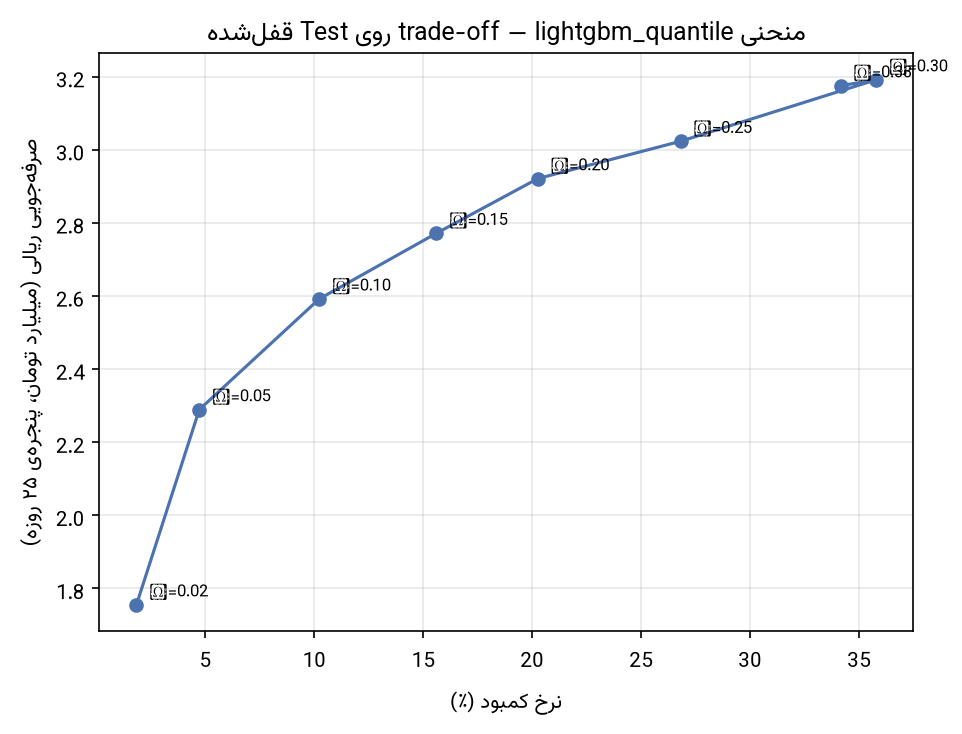
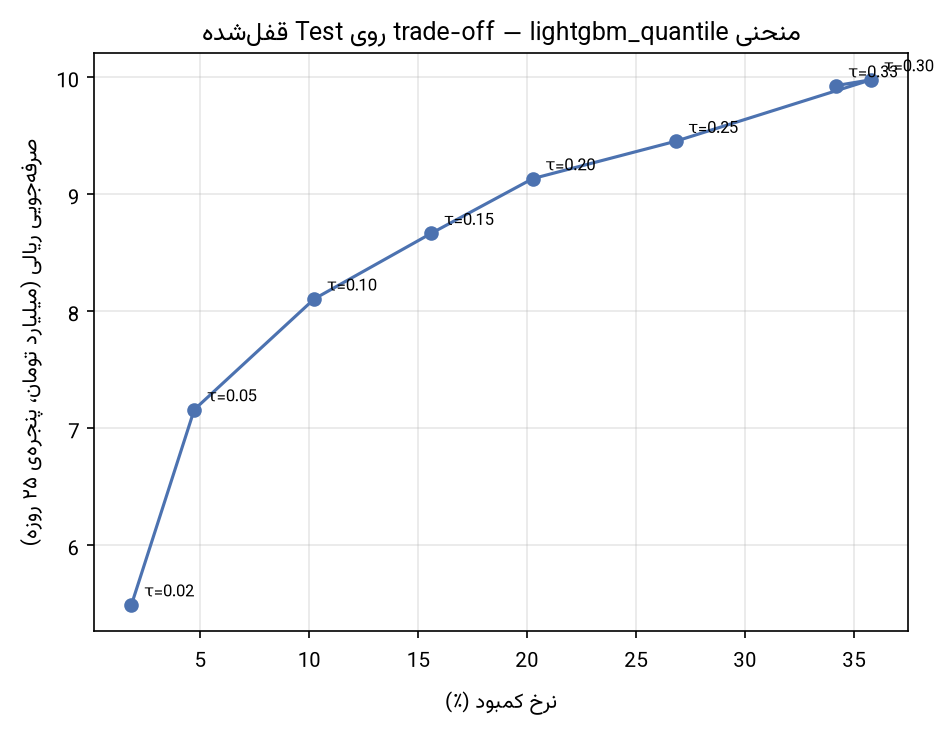
fix(economics): بهروزرسانی C_o از تقریب ۱۲۰ به قیمت واقعی امروز ۳۷۵ هزار تومان
قیمت تمامشدهی هر پرس برای دانشگاه (C_o) در همهی محاسبات کسبوکاری از تقریب
قدیمی ۱۲۰٬۰۰۰ تومان به قیمت واقعی امروز (شهریور ۱۴۰۵) ۳۷۵٬۰۰۰ تومان اصلاح شد؛
هر ارقام ریالی گزارش صریحاً «قیمت امروز» برچسب خوردند تا با نرخ پایینتر بازهی
داده (آذر ۱۴۰۲–خرداد ۱۴۰۳) اشتباه گرفته نشوند. قیمت یارانهای دانشجو (۳۵ هزار
تومان) هم بهعنوان مرجع مقایسه در فصل ۲ ذکر شد.

- COST_PER_PORTION_TOMAN در سه اسکریپت فاز ۸/۱۰ بهروز و دوباره اجرا شد
- صرفهجویی سالانهی سه سناریو: [11.6, 17.5, 19.8] → [36.3, 54.7, 61.9] میلیارد تومان
- doc/project-definition.md، doc/WBS، decision_log (ردیف ۶۲) و شش فایل final_report/tex همزمان بهروز شدند
- کامپایل xelatex بدون خطا تأیید شد (main.pdf، ۱۰۲ صفحه)

diff --git a/final_report/tex/chapter5.tex b/final_report/tex/chapter5.tex
@@ -31,8 +31,8 @@ $(d,m,r,f)$ صورتبندی شد و نه برآورد میانگین آن، 
 سرانجام لایهی تصمیم، نرخ پیشبینیشده را به عدد پخت تبدیل کرد و $\tau$ را بهعنوان اهرم
 سیاستی در اختیار بهرهبردار گذاشت. در نقطهی عملیاتی $\tau = 0.20$ هدررفت نسبت به پخت
 کامل رزرو حدود $71\%$ کاهش مییابد و بهطور متوسط ۳۱ پرس در روز در کل دانشگاه کمبود
-میماند؛ سه سناریوی سیاستی بررسیشده صرفهجویی سالانهای میان $11.6$ و $19.8$ میلیارد
-تومان میسازند.
+میماند؛ سه سناریوی سیاستی بررسیشده، به قیمت امروز، صرفهجویی سالانهای میان $36.3$ و
+$61.9$ میلیارد تومان میسازند.
 
 \section{نتیجهگیری}
 \label{sec:5-2}
@@ -42,22 +42,23 @@ $(d,m,r,f)$ صورتبندی شد و نه برآورد میانگین آن، 
 
 نخستین دستاورد، عددیکردن هدررفت موجود و نشاندادن اینکه چه بخشی از آن بازیافتنی است.
 پیش از این پژوهش، عدمدریافت غذا در سامانهی تغذیه ثبت میشد ولی به هزینه ترجمه نشده
-بود: $8.05\%$ رزروها تحویل گرفته نمیشود، یعنی بیش از ۱۶۲ هزار پرس در پنج ماه و با
-قیمت هر پرس ۱۲۰ هزار تومان نزدیک به ۱۹ میلیارد تومان در همان بازه. در نقطهی عملیاتی
-پیشنهادی، مقدار پخت پیشنهادی مدل هدررفت را نسبت به پخت کامل رزرو حدود $71\%$ کاهش
-میدهد و صرفهجویی سالانهی $19.8$ میلیارد تومان با بازهی $[14.1,\,26.0]$ میسازد
-(بند \ref{sec:4-5-5}). هزینهی این صرفهجویی هم با همان دقت گزارش شده است: بهطور
-متوسط ۳۱ پرس کمبود در روز در کل دانشگاه، در برابر حدود $11{,}100$ پرس سروشده در روز،
+بود: $8.05\%$ رزروها تحویل گرفته نمیشود، یعنی بیش از ۱۶۲ هزار پرس در پنج ماه و به
+قیمت تمامشدهی امروز (شهریور ۱۴۰۵، ۳۷۵ هزار تومان هر پرس) نزدیک به ۶۱ میلیارد تومان
+در همان بازه. در نقطهی عملیاتی پیشنهادی، مقدار پخت پیشنهادی مدل هدررفت را نسبت به پخت
+کامل رزرو حدود $71\%$ کاهش میدهد و صرفهجویی سالانهی $61.9$ میلیارد تومان با بازهی
+$[44.1,\,81.4]$ میسازد (بند \ref{sec:4-5-5}). هزینهی این صرفهجویی هم با همان دقت
+گزارش شده است: بهطور متوسط ۳۱ پرس کمبود در روز در کل دانشگاه، در برابر حدود
+$11{,}100$ پرس سروشده در روز،
 که روی مقدار غذا تنها $0.28\%$ تقاضای برآوردهنشده است.
 
 دستاورد دوم، تبدیل انتخاب میان صرفهجویی و کمبود به یک اهرم مدیریتی با عدد است. سطح
 کوانتایل $\tau$ رابطهی بستهای با نسبت هزینهی کمبود به مازاد دارد، پس آنچه معاونت
 دانشجویی انتخاب میکند یک پارامتر فنی نیست بلکه اعلام میزان ریسک قابلپذیرش است. جدول
 \ref{tab:policy} سه گزینهی آمادهی تصمیم میدهد: محافظهکارانه با ۳ پرس کمبود در روز و
-$11.6$ میلیارد تومان صرفهجویی، متعادل با ۱۵ پرس و $17.5$ میلیارد، و تهاجمی با ۳۱ پرس و
-$19.8$ میلیارد. شکل بازده این انتخاب برای مذاکره اهمیت دارد: گام از گزینهی
-محافظهکارانه به متعادل نزدیک شش میلیارد تومان میافزاید ولی گام بعدی، با وجود
-دوبرابرشدن نرخ کمبود، تنها حدود دو میلیارد. یعنی اگر حساسیت به گلایهی دانشجو بالا
+$36.3$ میلیارد تومان صرفهجویی، متعادل با ۱۵ پرس و $54.7$ میلیارد، و تهاجمی با ۳۱ پرس و
+$61.9$ میلیارد — همه به قیمت امروز. شکل بازده این انتخاب برای مذاکره اهمیت دارد: گام
+از گزینهی محافظهکارانه به متعادل نزدیک به ۱۸ میلیارد تومان میافزاید ولی گام بعدی، با وجود
+دوبرابرشدن نرخ کمبود، تنها حدود هفت میلیارد. یعنی اگر حساسیت به گلایهی دانشجو بالا
 باشد، عقبنشینی به گزینهی متعادل بخش کوچکی از منفعت را از دست میدهد. تغییر این انتخاب
 هم پروژهی تازه نمیخواهد؛ ویژگیها و روال ارزیابی دستنخورده میمانند و برازش دوبارهی
 مدل کمتر از یک ثانیه طول میکشد، پس بازنگری سیاست در همان روز شدنی است.
@@ -116,8 +117,9 @@ $23.7\%$ هدررفت را دربر میگیرد. مهمتر آنکه اگ
 
 اعداد ریالی این گزارش مشروط به فرضهای صریحی هستند که تثبیتشده نیستند. نسبت هزینهی
 کمبود به مازاد یک تصمیم سیاستی است و نه کمیتی اندازهگیریشده، و کل محور صرفهجویی روی
-همان نسبت بنا شده؛ بهعلاوه سال تحصیلی سیودو هفته، قیمت ثابت هر پرس، و نمایندهبودن
-الگوی داده برای کل سال فرض شدهاند. هیچیک از این نتایج در محیط واقعی آزموده نشده و
+همان نسبت بنا شده؛ بهعلاوه سال تحصیلی سیودو هفته، قیمت هر پرس به نرخ امروز (شهریور
+۱۴۰۵) و ثابت در طول سال — نه نرخ پایینتری که در بازهی داده برقرار بود — و
+نمایندهبودن الگوی داده برای کل سال فرض شدهاند. هیچیک از این نتایج در محیط واقعی آزموده نشده و
 پیشبینیها هرگز به آشپزخانهای اعلام نشدهاند. اگر پیشنهاد این پژوهش اجرا شود، خودِ
 اجرا رفتار را تغییر میدهد: مدل بر دادهای آموخته که در آن پخت بر مبنای رزرو کامل بوده،
 و کاهش مقدار پخت یا افزودن هر سیاست تشویقی و بازدارندهی تازه میتواند نرخ عدمدریافت را

diff --git a/final_report/tex/chapter2.tex b/final_report/tex/chapter2.tex
@@ -76,8 +76,9 @@ newsvendor} این دو مرحله را یکی کردهاند~\cite{BanRudin1
 \label{sec:2-2-2}
 
 هزینهی مازاد در این مسئله مستقیم و قابلاندازهگیری است: هر پرس پختهشدهای که دریافت
-نشود، بهای مواد اولیه و آمادهسازی خود را از دست میدهد؛ در دادهی این پژوهش این رقم
-حدود ۱۲۰ هزار تومان به ازای هر پرس است. هزینهی کمبود از جنس دیگری است. دانشجویی
+نشود، بهای مواد اولیه و آمادهسازی خود را از دست میدهد؛ به قیمت تمامشدهی امروز (شهریور
+۱۴۰۵) این رقم حدود ۳۷۵ هزار تومان به ازای هر پرس است — نرخ بازهی دادهی این پژوهش
+(آذر ۱۴۰۲ تا خرداد ۱۴۰۳) پایینتر از این بوده. هزینهی کمبود از جنس دیگری است. دانشجویی
 که با رزرو معتبر غذا دریافت نکند ناراضی میشود، و این نارضایتی به اعتبار معاونت
 دانشجویی آسیب میزند؛ آنچه از دست میرود بهای یک پرس نیست. این هزینه واقعی است، اما
 رسیدی ندارد که بتوان از رویش عدد برداشت؛ برآوردش یک تصمیم سیاستی از سوی معاونت
@@ -615,8 +616,10 @@ $8.05$ درصدی این داده در همان بازهی هواپیمایی
 
 در جستوجوی این پژوهش، مطالعهای منتشرشده دربارهی پیشبینی تقاضا یا هدررفت غذا در
 سلفهای دانشگاهی ایران یافت نشد و همهی شواهد مستقیم از اروپا و آمریکای شمالی میآید.
-این خلأ فقط جغرافیایی نیست: نرخ عدمدریافت به سیاست رزرو و قیمت یارانهای وابسته است و
-هیچکدام از این دو در سلف دانشگاهی ایران شبیه بستر آن پژوهشها نیست، پس ارقام آنها
+این خلأ فقط جغرافیایی نیست: نرخ عدمدریافت به سیاست رزرو و قیمت یارانهای وابسته است —
+دانشجو امروز حدود ۳۵ هزار تومان برای هر پرس میپردازد، در برابر قیمت تمامشدهی نزدیک
+به ۳۷۵ هزار تومان، یعنی کمتر از یکدهم — و هیچکدام از این دو در سلف دانشگاهی ایران
+شبیه بستر آن پژوهشها نیست، پس ارقام آنها
 مرجع مقایسهی مستقیم نیستند. تفاوت دوم در معیار است: پژوهشهای کترینگ خطای متقارن روی
 تعداد را گزارش میکنند، در حالی که معیار این پژوهش زیان نامتقارن روی نرخ است و دو عدد
 مستقیماً با هم قابلمقایسه نیستند. تفاوت سوم در مبنای مقایسه است و اثرش بر خواندن

diff --git a/src/models/run_phase10_annual_savings.py b/src/models/run_phase10_annual_savings.py
@@ -29,7 +29,7 @@ from src.features.build import FEATURES_A_PATH
 from src.models.card_writer import load_s2_result
 
 OUT_DIR = REPORTS_DIR / "phase10"
-COST_PER_PORTION_TOMAN = 120_000
+COST_PER_PORTION_TOMAN = 375_000
 ACADEMIC_WEEKS_PER_YEAR = 32          # فرض صریح — دو نیمسال ۱۶هفتهای
 SCENARIOS = {"محافظهکارانه": 0.02, "متعادل": 0.10, "تهاجمی": 0.20}
 
@@ -161,7 +161,9 @@ def main() -> None:
         f"3. **تعمیم حجم:** میانگین {op['rows_per_day']:.1f} ردیف $(m,r,f)$ در هر روز "
         "سرو، از دادهی مشاهدهشده — فرض میشود همین نرخ در طول سال ثابت بماند (بدون "
         "رشد/کاهش ثبتنام).",
-        "4. **قیمت ثابت:** $C_o$=۱۲۰٬۰۰۰ تومان/پرس در طول سال ثابت فرض شده (بدون تورم).",
+        "4. **قیمت روز:** $C_o$=۳۷۵٬۰۰۰ تومان/پرس، نرخ امروز (شهریور ۱۴۰۵) — نه نرخ "
+        "بازهی داده (آذر ۱۴۰۲ تا خرداد ۱۴۰۳) که پایینتر بوده — و در طول سال تحصیلی "
+        "ثابت فرض شده (بدون تورم).",
         "5. **الگوی هفتگی تکرارشونده:** رفتار مشاهدهشده در ۸۰ روز foldهای رسمی نمایندهی "
         "کل سال تحصیلی فرض شده — این محدودیت اصلی است؛ داده فقط ۵ ماه (آذر تا خرداد) "
         "را پوشش میدهد.",
@@ -197,7 +199,7 @@ def main() -> None:
         "## مقایسه با پنجرهی Test (برای شفافیت وابستگی به رژیم)",
         "",
         "برای مقایسه، بند ۸.۵ روی همان τ=۰.۲۰ ولی پنجرهی Test (رژیم غیرعادی) عدد "
-        "۲.۹۲ میلیارد تومان **در ۲۵ روز** داد (نه سالانه) — مقیاس این دو عدد قابلمقایسه "
+        "۹.۱ میلیارد تومان **در ۲۵ روز** داد (نه سالانه) — مقیاس این دو عدد قابلمقایسه "
         "نیست (پنجرهی متفاوت، بدون تعمیم زمانی)؛ اینجا صرفاً برای نشاندادن اینکه مبنای "
         "فولدهای رسمی و مبنای Test میتوانند نتایج متفاوت بدهند نقل شد — دلیل دیگری که "
         "چرا بند ۱۰.۴ از foldهای رسمی استفاده کرد، نه از Test.",

diff --git a/final_report/tex/faTitle.tex b/final_report/tex/faTitle.tex
@@ -79,7 +79,8 @@
 \fa-abstract{
 در سلفهای دانشگاه تهران مقدار پخت هر وعده بر مبنای تعداد رزروهای ثبتشده تعیین میشود،
 ولی دادهی سامانهی تغذیه در بازهی آذر ۱۴۰۲ تا خرداد ۱۴۰۳ نشان میدهد $8.05\%$ رزروها
-تحویل گرفته نمیشوند: بیش از ۱۶۲ هزار پرس در پنج ماه، نزدیک به ۱۹ میلیارد تومان. پخت
+تحویل گرفته نمیشوند: بیش از ۱۶۲ هزار پرس در پنج ماه، به قیمت امروز نزدیک به ۶۱ میلیارد
+تومان. پخت
 کمتر این هدررفت را کاهش میدهد ولی ریسک کمبود غذا را بالا میبرد، و هزینهی این دو خطا
 برابر نیست.
 
@@ -101,8 +102,8 @@
 
 سطح $\tau$ اهرم سیاستی مدیریت سلف است و سطح ریسک پذیرفتهشده را تعیین میکند. در نقطهی عملیاتی $\tau = 0.20$ هدررفت نسبت به پخت
 کامل رزرو حدود $71\%$ کاهش مییابد و بهطور متوسط ۳۱ پرس در روز در کل دانشگاه کمبود
-میماند که $0.28\%$ کل تقاضاست؛ سه سناریوی سیاستی بررسیشده صرفهجویی سالانهای میان
-$11.6$ و $19.8$ میلیارد تومان میسازند. این اعداد مشروط به فرضهای هزینهای صریحاند، در
+میماند که $0.28\%$ کل تقاضاست؛ سه سناریوی سیاستی بررسیشده، به قیمت امروز، صرفهجویی
+سالانهای میان $36.3$ و $61.9$ میلیارد تومان میسازند. این اعداد مشروط به فرضهای هزینهای صریحاند، در
 محیط واقعی آزموده نشدهاند و به تابستان و دورهی امتحانات تعمیمپذیر نیستند.
 }
 

diff --git a/final_report/tex/enTitle.tex b/final_report/tex/enTitle.tex
@@ -27,7 +27,8 @@ Loss, Time Series, Food Waste Reduction}
 At the University of Tehran dining halls, the amount of food cooked for each meal is
 set from the number of registered reservations, yet catering-system data covering Azar
 1402 to Khordad 1403 (November 2023 to June 2024) shows that 8.05\% of reservations are
-never collected: more than 162,000 portions in five months, close to 19 billion tomans.
+never collected: more than 162,000 portions in five months, close to 61 billion tomans
+at today's prices (September 2026; prices were lower during the data period).
 Cooking less reduces this waste but raises the risk of a shortage, and the two errors do
 not carry the same cost.
 
@@ -54,9 +55,9 @@ The quantile level $\tau$ is left to dining hall management as a policy lever th
 the accepted level of risk. At the operating point
 $\tau = 0.20$, waste falls by about 71\% relative to cooking the full reservation
 count, at the cost of an average shortfall of 31 portions per day across the whole
-university, which is 0.28\% of total demand; the three policy scenarios examined yield
-annual savings between 11.6 and 19.8 billion tomans. These figures are conditional on
-explicit cost assumptions, have not been tested in a live setting, and do not generalize
-to the summer or examination periods.
+university, which is 0.28\% of total demand; the three policy scenarios examined yield,
+at today's prices, annual savings between 36.3 and 61.9 billion tomans. These figures are
+conditional on explicit cost assumptions, have not been tested in a live setting, and do
+not generalize to the summer or examination periods.
 }
 

diff --git a/src/models/run_phase8_business_backtest.py b/src/models/run_phase8_business_backtest.py
@@ -4,8 +4,8 @@
 اتفاقی میافتاد؟» روی شبکهی کامل τ (`TAU_GRID`، بند ۶.۵) — هایپرپارامتر همان بهترین
 S2 (تنظیمشده روی τ=۰.۲۰) طبق یافتهی ۲۴ فاز ۷ که تعمیم بدون بازتنظیم را تأیید کرد.
 
-**واحد ریالی:** فقط $C_o$≈۱۲۰ هزار تومان/پرس (بند ۲-۲ project-definition.md) — عددی
-مستقل تخمینزدهشده. $C_u$ (هزینهی کمبود) هنوز تصمیم سیاستی تثبیتنشده است (همان سند)،
+**واحد ریالی:** فقط $C_o$≈۳۷۵ هزار تومان/پرس (بند ۲-۲ project-definition.md) — نرخ
+امروز (شهریور ۱۴۰۵)، نه نرخ بازهی داده که پایینتر بوده. $C_u$ (هزینهی کمبود) هنوز تصمیم سیاستی تثبیتنشده است (همان سند)،
 پس این نمودار عمداً محور X را **نرخ** کمبود میگذارد نه هزینهی ریالیاش — دقیقاً طبق
 مشخصات بند ۸.۵ WBS.
 
@@ -33,7 +33,7 @@ from src.viz_fa import setup as viz_setup
 OUT_DIR = REPORTS_DIR / "phase8"
 FIG_DIR = FIGURES_DIR / "phase8"
 CHAMPION = "lightgbm_quantile"
-COST_PER_PORTION_TOMAN = 120_000
+COST_PER_PORTION_TOMAN = 375_000
 
 
 def main() -> None:

diff --git a/final_report/tex/chapter1.tex b/final_report/tex/chapter1.tex
@@ -28,8 +28,9 @@
 
 دادهی سامانهی تغذیه در بازهی آذر ۱۴۰۲ تا خرداد ۱۴۰۳، شامل ۱۴۲ روز سرو در ۳۰ سلف و شش
 شهر، نشان میدهد $8.05\%$ کل رزروهای ثبتشده تحویل گرفته نشدهاند. حجم مطلق این هدررفت بیش
-از ۱۶۲ هزار پرس در پنج ماه است که با قیمت تقریبی ۱۲۰ هزار تومان برای هر پرس، نزدیک به ۱۹
-میلیارد تومان در همین بازه و سالانهشده حدود ۵۰ میلیارد تومان میشود.
+از ۱۶۲ هزار پرس در پنج ماه است که به قیمت تمامشدهی امروز (شهریور ۱۴۰۵؛ حدود ۳۷۵ هزار
+تومان هر پرس — نرخ بازهی داده پایینتر از این بوده)، نزدیک به ۶۱ میلیارد تومان در همین
+بازه و سالانهشده حدود ۱۵۷ میلیارد تومان میشود.
 
 خطا در دو جهت پیامد یکسانی ندارد: پخت بیش از نیاز هزینهی مالی دارد، ولی پخت کمتر از نیاز
 به کمبود غذا و نارضایتی دانشجویان میانجامد. همین عدمتقارن شکل تابع هدف این پژوهش را

diff --git a/src/models/run_phase10_newsvendor.py b/src/models/run_phase10_newsvendor.py
@@ -23,7 +23,7 @@ from src.models.card_writer import load_s2_result
 from src.models.run_phase8_holdout_eval import load_holdout
 
 OUT_DIR = REPORTS_DIR / "phase10"
-COST_PER_PORTION_TOMAN = 120_000
+COST_PER_PORTION_TOMAN = 375_000
 #: شبکهی نظری چگالیتر از TAU_GRID عملیاتی — فقط برای جدول τ*_ρ (بدون نیاز به بازبرازش)
 THEORETICAL_CU_OVER_CO = [1, 1.5, 2, 3, 4, 5, 6.667, 9, 19, 49, 99]
 

diff --git a/doc/decision_log.md b/doc/decision_log.md
@@ -65,5 +65,6 @@
 | 59 | **افزودن دو معیار اندازهی کمبود (میانگین پرس کمبود در روز، و کسر تقاضای برآوردهنشده = مکمل Fill Rate) در کنار نرخ کمبود، و ذکر صریح قیمت هر پرس در جدول سیاستی گزارش** | 2026-08-30 | (الف) فقط نرخ کمبود (وضع قبلی)، (ب) نرخ کمبود + میانگین پرس کمبود روزانه، (ج) نرخ کمبود + کسر تقاضای برآوردهنشده، (د) هر سه با هم | نرخ کمبود سطح خدمت نوع اول است و فقط *رخداد* را میشمارد: سلولی با یک پرس کمبود و سلولی با هزار پرس کمبود یک واحد شمرده میشوند، پس برای مذاکره با مدیریت سلف عدد گمراهکنندهای است. میانگین پرس کمبود روزانه واحد ملموس بهرهبردار را میدهد و کسر تقاضای برآوردهنشده (سطح خدمت نوع دوم، بند ۶-۳ `doc/model-evaluation-metrics.md` که از فاز ۶ همین زوج را توصیه کرده بود) اندازهی کمبود را وزن میدهد؛ هر دو با هم آمدند چون اولی قابلفهم و دومی مقایسهپذیر بین سناریوهاست. قیمت هر پرس ($C_o$=۱۲۰٬۰۰۰ تومان) هم در جدول ذکر شد چون بدون آن رقم صرفهجویی قابلبازبینی نیست | فاصلهی این معیارها ادعای فصل ۴ را عوض کرد: در $\tau=0.20$ نرخ کمبود $15.4\%$ است ولی تنها $0.28\%$ تقاضا برآورده نمیشود — میانگین ۳۱ پرس در روز از ~۱۱٬۱۰۰ پرس سروشده (میانه ۱۳، بدترین روز ۲۰۷، عمق میانگین ۴.۲ پرس در هر سلول کمبوددار). یعنی کمبودها پرشمار ولی کمعمقاند و گزارش نرخ رخداد بهتنهایی شدت مسئله را چند برابر بزرگتر نشان میداد. `src/models/run_phase10_annual_savings.py`، `reports/phase10/10.3_policy_scenarios.md`، `reports/phase10/10.4_annual_savings.md`، جدولهای ۴-۲ و ۴-۷ `final_report/tex/chapter4.tex` |
 | 60 | **انحراف آگاهانه از ردیف ۵۴: پیشوند «بخش اول/دوم/سوم/چهارم/پنجم:» از عنوان بندهای ۲-۲ تا ۲-۶ (`\section`های فصل ۲) حذف شد — عنوانها اکنون فقط موضوع را میگویند، بدون شمارهی بخش** | 2026-09-04 | (الف) نگهداشتن پیشوند طبق تطبیق عینی با فهرست مطالب docx (ردیف ۵۴)؛ (ب) حذف پیشوند و نگهداشتن فقط عنوان موضوعی — (ب) بهدستور صریح کاربر انتخاب شد | (الف) پیشتر توجیه این بود که فهرست مطالب رسمی docx خودش الگوی `2-2- بخش اول : ....` را میدهد؛ کاربر با علم به این توجیه، صریحاً خواست شکسته شود. (ب) اجرا شد: در `final_report/tex/chapter2.tex` عنوان پنج `\section` به «مسئلهی روزنامهفروش و زیان نامتقارن»، «رگرسیون کوانتایل و پیشبینی احتمالاتی»، «اعتبارسنجی و نشت اطلاعاتی در دادهی زمانی»، «ابزارهای آماری و استنباطی بهکاررفته»، «مروری بر پیشینهی تحقیق» تغییر کرد (بدون تغییر شمارهگذاری ۲-۲ تا ۲-۶ یا محتوای بدنه). هیچ ارجاع متنی دیگری به «بخش اول/دوم/...» در فایل باقی نماند | `final_report/tex/chapter2.tex` |
 | 61 | **دور ۴ کاوش داده: آزمون کمّی رفتار حول اختلال سرویس (روز شوک، روز قطع، روز بازگشت) — بهدرخواست ذینفع** | 2026-09-06 | (الف) اکتفا به ستون `observed_in_data` آرشیو `events.csv` که برای هر رویداد $\rho$ و z آن را دارد، (ب) فقط رویدادهای خبریِ نامبرده (کرمان، سقوط بالگرد) بهصورت موردی بررسی شوند، (ج) تعریف عملیاتی «روز اختلال» از خودِ داده ساخته شود (نه از آرشیو خبری) و هر سه رده — شوک با سرو کامل، قطع سرویس، بازگشت پس از شکاف — با گروه کنترل و فاصلهی اطمینان آزمون شوند | گزینهی (الف) رد شد چون `observed_in_data` یک **توصیف** است نه **آزمون**: نه فاصلهی اطمینان دارد، نه گروه کنترل همتا، و نه چیزی دربارهی روزهای *پس از* رویداد میگوید. گزینهی (ب) رد شد چون دو رویداد نامبرده اتفاقاً هر دو `سرو_کامل` بودند و بررسی موردیشان به نتیجهی «اثری نبود» میرسید بدون اینکه معلوم شود آیا اصلاً *توان آماری* تشخیص اثر وجود داشته. گزینهی (ج) هر سه را حل میکند: جفت (سلف، وعده) «انتظارروَنده» با آستانهی صریح تعریف شد (≥۸۰٪ سرو در همان روزِ هفته، حداقل ۴ فرصت)، و «شوک» = باقیماندهی نرخ پس از حذف اثر ثابت سلف/وعده/روزِ هفته | `src/eda_lib/disruption.py` + `src/eda_lib/runners/r4_disruption.py` + `doc/eda/round4/R4_disruption.md` + ۳ نمودار `reports/figures/round4/`. **پنج حقیقت جدید F68–F72.** سه نتیجهی اصلی: (۱) **F68** سناریوی «تعطیلی ناگهانی با رزروِ سوخته» عملاً وجود ندارد — از ۱۲ روزِ قطع فقط ۱ جفت (روز، وعده) رزروِ بیسرویس دارد (۱۶۳ رزرو = ۰.۰۱٪)، بقیه سرویسشان پیش از باز شدن رزرو برداشته شده بود؛ (۲) **F69** روزهای شوک خبری اثر قابلتشخیصی ندارند (Δ=+۰.۰۰۴۷ [−۰.۰۰۸۷,+۰.۰۱۷۳]، d=+۰.۰۷) — تأیید **مستقل** بند ۲.۴ WBS؛ (۳) **F70** چهار روز اول بازگشت پس از شکاف ≥۴ روزه نرخ را ۲۲٪ نسبی بالا میبرد (+۰.۰۱۷۵ [+۰.۰۱۲۶,+۰.۰۲۲۸]) — که **توجیه کمّیِ عقبافتادهی ردیفهای ۳۲ و ۴۹** است (هر دو پنجرهی بازگشت را «رژیم غیرعادی» خوانده بودند بدون اندازهگیری). ⚠ **یک اصلاح روششناختی درون همین دور:** نسخهی اول میانگین **ساده**ی شوک سلولها را گرفت و اثر روز اول بازگشت را ۵ برابر بزرگتر نشان داد (+۰.۰۷۸ در برابر +۰.۰۱۵ وزنی) — همان مصنوع کمنمونگی که F5.1 هشدارش را داده بود؛ همهی اعداد نهایی وزنیاند. ⚠ **این دور M2 را باز نمیکند و قهرمان فاز ۷ را عوض نمیکند**؛ فیچر پیشنهادی `is_post_gap_return` **آزموننشده** است و بهعنوان کاندید ثبت شده، نه نتیجه |
+| 62 | **بهروزرسانی $C_o$ (قیمت تمامشدهی هر پرس برای دانشگاه) از تقریب ۱۲۰٬۰۰۰ تومان به قیمت واقعی امروز ۳۷۵٬۰۰۰ تومان — با برچسب صریح «قیمت روز، نه قیمت بازهی داده»** | 2026-09-09 | (الف) نگهداشتن تقریب قدیمی ۱۲۰٬۰۰۰ تومان، (ب) استفاده از قیمت واقعی امروز که کاربر اعلام کرد، بدون بازسازی قیمت تاریخی بازهی داده (که مستند نیست)، (ج) جستوجوی قیمت دقیق تاریخی آذر ۱۴۰۲–خرداد ۱۴۰۳ از منبع رسمی | کاربر/صاحب پروژه قیمت تمامشدهی امروز هر پرس برای دانشگاه را ۳۷۵٬۰۰۰ تومان و قیمتی که دانشجو میپردازد را ۳۵٬۰۰۰ تومان اعلام کرد (شهریور ۱۴۰۵) و صراحتاً هشدار داد که نرخ بازهی داده پایینتر بوده. گزینهی (ج) رد شد چون قیمت دقیق همان بازه مستند و در دسترس این پروژه نیست. گزینهی (ب) انتخاب شد: بهجای برساختن عددی تاریخی نامطمئن، همهی ارقام ریالی گزارش بهعنوان «قیمت امروز» برچسب خوردند تا خواننده آن را با هزینهی واقعی همان بازه اشتباه نگیرد. نرخ کمبود، درصد کاهش هدررفت و نقطهی عملیاتی $\tau=0.20$ دستنخورده ماندند چون اینها به نسبت $C_u/C_o$ وابستهاند نه مقدار مطلق (ردیف ۳۶) — فقط تبدیل پرسِ صرفهجوییشده (کمیت اندازهگیریشده) به تومان با نرخ روز عوض شد. قیمت یارانهای دانشجو (۳۵٬۰۰۰ تومان) در هیچ محاسبهای وارد نشد، فقط برای نشاندادن اندازهی یارانه (~۹٪ قیمت تمامشده) در بند مرور پیشینهی فصل ۲ بهعنوان توضیح تفاوت بستر با ادبیات غربی ذکر شد | `COST_PER_PORTION_TOMAN` در `src/models/run_phase8_business_backtest.py`، `run_phase10_newsvendor.py`، `run_phase10_annual_savings.py` از ۱۲۰٬۰۰۰ به ۳۷۵٬۰۰۰ تغییر کرد و هر سه اسکریپت دوباره اجرا شدند (نسبت ثابت ۳.۱۲۵×). صرفهجویی سالانهی سه سناریوی بند ۱۰.۳ از [۱۱.۶، ۱۷.۵، ۱۹.۸] به [۳۶.۳، ۵۴.۷، ۶۱.۹] میلیارد تومان تغییر کرد؛ هدررفت پنجماههی مشاهدهشده (۱۶۲٬۴۲۹ پرس) از ~۱۹ به ~۶۱ میلیارد تومان و سالانهشدهی ساده از ~۵۰ به ~۱۵۷ میلیارد تومان. `doc/project-definition.md` (بندهای ۱-۱، ۲-۲، ۵-۲) و `final_report/tex/{chapter1,chapter2,chapter4,chapter5,faTitle,enTitle}.tex` همزمان بهروزرسانی شدند |
 | 62 | **فشردهسازی بند ۳-۴ گزارش (معماری و پیادهسازی سامانه) از ~۳.۵ صفحه و پنج زیربند به نیم صفحهی بدون زیربند — بهدستور صریح کاربر** | 2026-09-06 | (الف) نگهداشتن ساختار پنجزیربندی طبق `doc/report-outline.md` با کوتاهکردن نثر هر زیربند؛ (ب) حذف کامل بند و انتقال محتوایش به پیوست؛ (پ) تبدیل کل بند به سه پاراگراف پیوسته بدون زیربند و حذف همهی شناورها — (پ) انتخاب شد | کاربر موضوع این بند (مهندسی نرمافزار و بازتولیدپذیری) را نسبت به موضوع پژوهش (پیشبینی نرخ عدمدریافت) کمربط دانست و خواست بودجهی صفحهاش آزاد شود. گزینهی (ب) رد شد چون سه ادعای این بند از جای دیگر گزارش ارجاع میشوند و باید در بدنه بمانند: رویهی ساخت و انجماد بخشهای اعتبارسنجی (ارجاع از بند ۴-۳-۲)، پیادهسازی قاعدهی برش (ارجاع از بند ۳-۲-۲)، و اینکه معیارهای عملیاتی از روی عدد پخت محاسبه میشوند نه مستقیم از $\hat\rho_\tau$. گزینهی (الف) به هدف نیمصفحه نمیرسید چون خودِ شناورها (جدول لایهها، شکل خط لوله، الگوریتم هارنس) بیش از یک صفحه جا میگرفتند | `final_report/tex/chapter3.tex`: بند ۳-۴ اکنون سه پاراگراف است (بستهی کد هشتلایه و نسخهبندی · سه قید محافظ نتیجه · لایهی تصمیم) و کل فصل ۳ در صفحهی ۴۱ تمام میشود. **حذفشدهها:** جدول لایههای `src/`، شکل خط لوله، الگوریتم (۳-۱) هارنس، و رابطهی شمارهدار قاعدهی برش (که اکنون درونخطی آمده). ارجاعهای `sec:3-4-2` و `sec:3-4-3` در فصلهای ۳ و ۴ به `sec:3-4` اصلاح شدند و کامپایل بدون ارجاع تعریفنشده رد میشود. `doc/report-outline.md` همزمان همگام شد (بودجهی فصل ۳: ۱۲ ← ۹ صفحه) | 
 | 63 | **مرحلهی دوم فشردهسازی: بند ۳-۴ از سه پاراگراف به یک، و بند ۳-۵ (خلاصهی فصل) از پنج پاراگراف به دو — بهدستور صریح کاربر** | 2026-09-06 | (الف) اکتفا به فشردهسازی ردیف ۶۲ و توقف؛ (ب) فشردهسازی بیشتر با حذف یکی از سه قید بند ۳-۴؛ (پ) ادغام هر سه قید در یک پاراگراف با حذف جملههای توضیحی، و بازنویسی خلاصهی فصل حول همان اعدادی که واقعاً تصمیم را عوض کردند — (پ) انتخاب شد | کاربر بند ۳-۴ را حتی پس از ردیف ۶۲ هنوز بلند دانست و خلاصهی فصل را هم مشمول همان ایراد کرد. گزینهی (ب) رد شد چون هر سه قید از جای دیگر گزارش ارجاع میشوند (بندهای ۳-۲-۲ و ۴-۳-۲ و رابطهی عدد پخت)، پس حذف یکی نشتی ارجاع میسازد؛ راه درست کوتاهکردن *بیان* آنها بود نه حذفشان. در بند ۳-۵ معیار نگهداشتن این شد که هر جمله یا کمیت هدف را تعریف کند یا عددی بدهد که تصمیمی را عوض کرده — بر این مبنا فهرست فرضهای ردشده به یک نمونه (آلودگی هوا) و فهرست ویژگیها به سرجمعش تقلیل یافت | `final_report/tex/chapter3.tex`: بند ۳-۴ یک پاراگراف (~ربع صفحه) و بند ۳-۵ دو پاراگراف (~نیم صفحه)؛ هر دو روی صفحهی ۴۱ جا میشوند و فصل ۳ همانجا تمام میشود. کامپایل بدون ارجاع تعریفنشده رد میشود. **بررسی رندر:** استخراج متن صفحهی ۴۱ تأیید کرد اعداد `۸۳٫۲٪`، `۳٫۱`، `۰٫۴`، `۰٫۵` همگی با نشانهی جاسازی چپبهراست و به ترتیب درست رندر میشوند — یعنی باگ ردیف ۵۸ عود نکرده و قالب `$...$` با رقم اسکی همچنان درست کار میکند | 

diff --git a/doc/project-definition.md b/doc/project-definition.md
@@ -13,7 +13,7 @@
 
 ### ۱-۱. وضعیت فعلی و ابعاد مالی/محیطزیستی
 
-بر اساس دادههای سامانهی تغذیهی دانشگاه تهران در بازهی آذر ۱۴۰۲ تا خرداد ۱۴۰۳، حدود ۸ درصد از غذاهای رزروشده (بیش از ۱۶۲ هزار پرس در ۵ ماه) دریافت نشدهاند. با هزینهی فعلی هر پرس (~۱۲۰ هزار تومان)، این هدررفت بهصورت سالانهشده حدود ۵۰ میلیارد تومان برآورد میشود.
+بر اساس دادههای سامانهی تغذیهی دانشگاه تهران در بازهی آذر ۱۴۰۲ تا خرداد ۱۴۰۳، حدود ۸ درصد از غذاهای رزروشده (بیش از ۱۶۲ هزار پرس در ۵ ماه) دریافت نشدهاند. با قیمت تمامشدهی امروز هر پرس برای دانشگاه (شهریور ۱۴۰۵: ~۳۷۵ هزار تومان — نرخ بازهی داده پایینتر از این بوده)، این هدررفت بهصورت سالانهشده حدود ۱۵۷ میلیارد تومان برآورد میشود.
 همچنین با توجه به مصاحبه های انجام شده به نظر می آیند بعضی از مواقع پیمانکاران بدون هماهنگی با کارفرما و براساس تجربه تعداد غذا را مقداری کمتر از میزان رزرو پخت می کنند ولی تمام هزینه ها را از کارفرما دریافت می کنند.
 
 این شکاف میان تعداد رزرو و تقاضای واقعی، هم از نظر مالی و هم از نظر مدیریتی، یک مسئلهی حلنشده و قابل بهبود با روشهای دادهمحور است.
@@ -48,7 +48,7 @@
 
 $$Q^{*} = F_D^{-1}\!\left(\frac{C_u}{C_u + C_o}\right)$$
 
-که $C_u$ هزینهی کمبود، $C_o$ هزینهی مازاد (~۱۲۰ هزار تومان هر پرس)، و $F_D$ تابع توزیع **تقاضا** است.
+که $C_u$ هزینهی کمبود، $C_o$ هزینهی مازاد (قیمت تمامشدهی امروز هر پرس برای دانشگاه، شهریور ۱۴۰۵: ~۳۷۵ هزار تومان)، و $F_D$ تابع توزیع **تقاضا** است.
 
 > **⚠ تصحیح (۲۰۲۶-۰۸-۱۴، ردیف ۳۶ `decision_log`).** نسخهی قبلی این بند بهاشتباه نوشته بود «$\tau^{*} = C_u/(C_u+C_o)$» و همزمان τ را کوانتایل **نرخ عدمدریافت $\rho$** تعریف کرده بود (بند ۴-۱). این دو با هم ناسازگارند: با آن فرمول، پیشفرض $\tau=0.10$ به معنای $C_u = C_o/9$ میشد، یعنی کمبود غذا **ارزانتر** از مازاد — عکس کل انگیزهی پروژه.
 >
@@ -221,7 +221,7 @@ $$\widehat{CookQty}_{d,m,r,f} = \left\lceil Res_{d,m,r,f} \times (1-\hat\rho_{\t
 - مسئله **تکتصمیمی (single-shot)** است، نه دومرحلهای: امکان پخت مرحلهای/تأخیری (مثلاً ۸۰٪ اولیه + ۲۰٪ بر اساس رزرو) وجود ندارد (پرسشنامهی ذینفعان، بند ۱-۴ WBS).
 - ظرفیت آشپزخانه هر سلف قید فعالی نیست — سلف توانایی پاسخگویی به سقف نیاز دانشکدههای تحت پوشش را دارد؛ پخت در بستهی گسسته (مثلاً مضرب ۵۰ پرس) هم انجام نمیشود، خروجی مدل عدد دقیق است (همان منبع).
 - سیاست جریمهی عدمدریافت در بازهی داده تغییر نکرده و اصلاً وارد تحلیل نمیشود (همان منبع) — ریسک Concept Drift ناشی از تغییر سیاست جریمه در بند ۵-۳ بر همین اساس کماولویت شده است.
-- سرنوشت غذای مازاد (دورریز/فروش/اهدا) خارج از محدودهی این پروژه است؛ کاربر آن را جداگانه در $C_o$ واقعی لحاظ میکند و این سند همچنان از تقریب ثابت ~۱۲۰ هزار تومان (بند ۲-۲) استفاده میکند.
+- سرنوشت غذای مازاد (دورریز/فروش/اهدا) خارج از محدودهی این پروژه است؛ کاربر آن را جداگانه در $C_o$ واقعی لحاظ میکند و این سند همچنان از تقریب ثابت ~۳۷۵ هزار تومان (قیمت امروز، شهریور ۱۴۰۵؛ بند ۲-۲) استفاده میکند — نرخ بازهی دادهی این پروژه (آذر ۱۴۰۲ تا خرداد ۱۴۰۳) پایینتر از این بوده، پس ارقام ریالی این سند بازتاب هزینهی امروزند، نه هزینهی واقعی همان بازه.
 - داده فقط ۵ ماه (آذر تا خرداد) را پوشش میدهد؛ برای الگوهای هفتگی کافی است، اما برای الگوهای فصلی/ترمی (شروع/پایان ترم، امتحانات، تابستان) دادهی کافی وجود ندارد — این محدودیت تعمیمپذیری، نه نقص پنهان، بهصراحت گزارش میشود.
 - برای مدل B، دانشجویانی با سابقهی کم یا بدون سابقه (مثلاً ترم اول) با فیچرهای جمعیتی (دانشکده/رشته/مقطع/خوابگاه) بهجای تاریخچهی رفتاری مدل میشوند؛ عملکرد مدل برای این گروه احتمالاً ضعیفتر از دانشجویان باسابقه است و باید جداگانه گزارش شود.
 - توزیع کلاس $ReserveStatus$ در سطح فرد بهمراتب نامتوازنتر از نرخ تجمیعی (~۸٪) است؛ مدیریت این عدمتوازن (وزندهی کلاس یا معیار ارزیابی مناسب) بخشی از فاز طراحی متدولوژی مدل B است و در این سند تعریف مسئله مطرح نمیشود.

diff --git a/reports/phase10/10.4_annual_savings.md b/reports/phase10/10.4_annual_savings.md
@@ -5,7 +5,7 @@
 1. **پایه:** پیشبینی OOF قهرمان روی هر ۵ fold رسمی فاز ۷ (۳٬۸۸۰ ردیف، ۸۰ روز سرو) — نه پنجرهی Test بند ۸.۱ که رژیم غیرعادی مستند دارد.
 2. **تعمیم زمانی:** سال تحصیلی = **32 هفتهی آموزشی** (دو نیمسال ۱۶هفتهای) — تعطیلات نوروز/تابستان بیرون گذاشته شدند چون الگوی سرو متفاوتی دارند که در این داده مشاهده نشده.
 3. **تعمیم حجم:** میانگین 48.5 ردیف $(m,r,f)$ در هر روز سرو، از دادهی مشاهدهشده — فرض میشود همین نرخ در طول سال ثابت بماند (بدون رشد/کاهش ثبتنام).
-4. **قیمت ثابت:** $C_o$=۱۲۰٬۰۰۰ تومان/پرس در طول سال ثابت فرض شده (بدون تورم).
+4. **قیمت روز:** $C_o$=۳۷۵٬۰۰۰ تومان/پرس، نرخ امروز (شهریور ۱۴۰۵) — نه نرخ بازهی داده (آذر ۱۴۰۲ تا خرداد ۱۴۰۳) که پایینتر بوده — و در طول سال تحصیلی ثابت فرض شده (بدون تورم).
 5. **الگوی هفتگی تکرارشونده:** رفتار مشاهدهشده در ۸۰ روز foldهای رسمی نمایندهی کل سال تحصیلی فرض شده — این محدودیت اصلی است؛ داده فقط ۵ ماه (آذر تا خرداد) را پوشش میدهد.
 
 ## برآورد (نقطهی عملیاتی τ=0.20، بوتاسترپ بلوکی دوبعدی روز×سلف، ۱۰۰۰ تکرار)
@@ -13,13 +13,13 @@
 - پرس صرفهجوییشده بهازای هر ردیف: 15.202 [CI: 10.828, 19.972]
 - ردیف در سال (فرضی): 10,864
 - **پرس صرفهجوییشده در سال: 165,150 [117,635, 216,971]**
-- **صرفهجویی ریالی سالانه: 19.82 میلیارد تومان [CI ۹۵٪: 14.12, 26.04]** (با 120,000 تومان بهازای هر پرس)
+- **صرفهجویی ریالی سالانه: 61.93 میلیارد تومان [CI ۹۵٪: 44.11, 81.36]** (با 375,000 تومان بهازای هر پرس)
 - هزینهی طرف مقابل، در سه مقیاس: عمق میانگین هر سلول کمبوددار 4.2 پرس؛ مجموع کمبود همهی سلفها **در یک وعده** بهطور میانگین 18 پرس، میانه 8 پرس، بیشینهی کل دوره 114 پرس؛ و در کل دوره کسر تقاضای برآوردهنشدهی 0.28% (Fill Rate = 99.72%). نرخ کمبود 15.4% سلولها فقط *رخداد* را میشمارد. ⚠ تجمیع روزانه (31 پرس در یک روز سرو، بدترین روز 207 پرس) ناهار و شام را با هم جمع میکند و با واحد تصمیم پخت متناظر نیست — در گزارش نهایی سطح وعده نقل شود
 
 ## عبارت صادقانه (طبق الگوی دقیق بند ۱۰.۴ WBS)
 
-> «بر اساس عملکرد قهرمان روی foldهای رسمی اعتبارسنجی و با فرض تداوم الگوی هفتگی در 32 هفتهی آموزشی سال، صرفهجویی سالانه در بازهی 14.1 تا 26.0 میلیارد تومان برآورد میشود؛ این برآورد به تابستان، تعطیلات، و رشد ثبتنام تعمیمپذیر نیست.»
+> «بر اساس عملکرد قهرمان روی foldهای رسمی اعتبارسنجی و با فرض تداوم الگوی هفتگی در 32 هفتهی آموزشی سال، صرفهجویی سالانه در بازهی 44.1 تا 81.4 میلیارد تومان برآورد میشود؛ این برآورد به تابستان، تعطیلات، و رشد ثبتنام تعمیمپذیر نیست.»
 
 ## مقایسه با پنجرهی Test (برای شفافیت وابستگی به رژیم)
 
-برای مقایسه، بند ۸.۵ روی همان τ=۰.۲۰ ولی پنجرهی Test (رژیم غیرعادی) عدد ۲.۹۲ میلیارد تومان **در ۲۵ روز** داد (نه سالانه) — مقیاس این دو عدد قابلمقایسه نیست (پنجرهی متفاوت، بدون تعمیم زمانی)؛ اینجا صرفاً برای نشاندادن اینکه مبنای فولدهای رسمی و مبنای Test میتوانند نتایج متفاوت بدهند نقل شد — دلیل دیگری که چرا بند ۱۰.۴ از foldهای رسمی استفاده کرد، نه از Test.
+برای مقایسه، بند ۸.۵ روی همان τ=۰.۲۰ ولی پنجرهی Test (رژیم غیرعادی) عدد ۹.۱ میلیارد تومان **در ۲۵ روز** داد (نه سالانه) — مقیاس این دو عدد قابلمقایسه نیست (پنجرهی متفاوت، بدون تعمیم زمانی)؛ اینجا صرفاً برای نشاندادن اینکه مبنای فولدهای رسمی و مبنای Test میتوانند نتایج متفاوت بدهند نقل شد — دلیل دیگری که چرا بند ۱۰.۴ از foldهای رسمی استفاده کرد، نه از Test.
